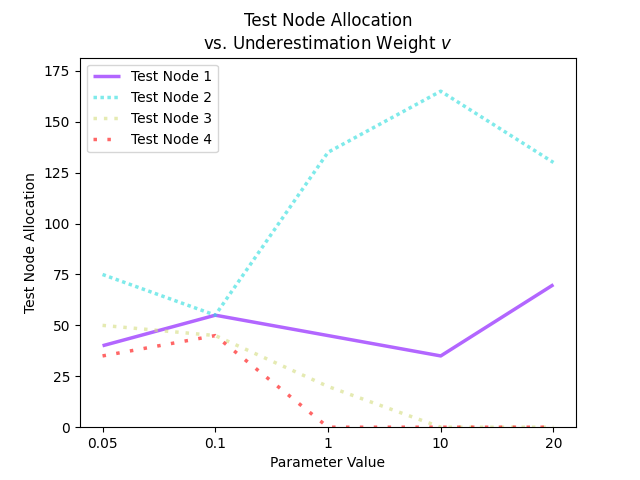
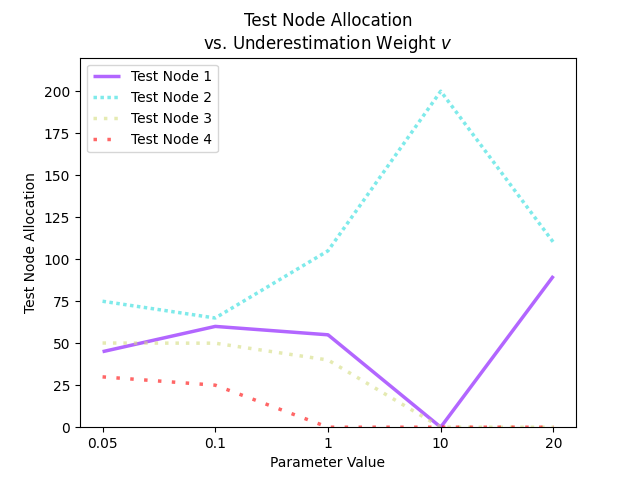
case study adds

diff --git a/bayesianexperimentation/bayesianexperimentaldesign.py b/bayesianexperimentation/bayesianexperimentaldesign.py
@@ -2844,6 +2844,42 @@ def allocationCaseStudy():
         0.04386058, 0.04477777, 0.0467264 , 0.04695118, 0.04900154,
         0.04869328, 0.04938808, 0.05143445, 0.05252614, 0.05373184,
         0.05447112]])
+    currMargUtilMat05_3 = np.array([[0.        , 0.00601169, 0.0108309 , 0.01355915, 0.01673024,
+        0.01928076, 0.02164499, 0.02392497, 0.02596712, 0.02832058,
+        0.02947884, 0.03180665, 0.03320108, 0.03613551, 0.03770515,
+        0.03856799, 0.0410028 , 0.04214557, 0.04334369, 0.04453244,
+        0.04635301, 0.04812485, 0.04907387, 0.05127222, 0.05140429,
+        0.05453983, 0.05517881, 0.05757177, 0.0591679 , 0.06030551,
+        0.06226179, 0.06375696, 0.06392201, 0.06606418, 0.06753301,
+        0.06922053, 0.07083268, 0.07117967, 0.07485609, 0.07505168,
+        0.07630949],
+       [0.        , 0.00917243, 0.0146688 , 0.01886884, 0.0227943 ,
+        0.02620967, 0.02894632, 0.03228571, 0.0341945 , 0.0374255 ,
+        0.03849882, 0.04005418, 0.04330325, 0.04413023, 0.04517914,
+        0.04821411, 0.0487302 , 0.05098418, 0.05202669, 0.05463323,
+        0.05537767, 0.05724306, 0.05842422, 0.05977964, 0.06181523,
+        0.0625304 , 0.06424249, 0.06502145, 0.06755836, 0.06866985,
+        0.06967059, 0.07034459, 0.07093824, 0.07296039, 0.07438248,
+        0.07651179, 0.07680317, 0.07901239, 0.07942372, 0.08045284,
+        0.08225545],
+       [0.        , 0.00566112, 0.00969647, 0.01332372, 0.01625888,
+        0.01871384, 0.02088149, 0.02371345, 0.02548017, 0.02831037,
+        0.02950397, 0.03183995, 0.0342302 , 0.03563289, 0.03816063,
+        0.04037406, 0.04093243, 0.04309172, 0.04430666, 0.04534428,
+        0.04627744, 0.04936543, 0.05053222, 0.05148008, 0.05327159,
+        0.05401187, 0.05522744, 0.05754494, 0.0589372 , 0.06006307,
+        0.06055305, 0.06202746, 0.06466132, 0.06602554, 0.06615118,
+        0.0684922 , 0.0681559 , 0.07017547, 0.07212271, 0.07292587,
+        0.07518005],
+       [0.        , 0.0049045 , 0.00860365, 0.01134197, 0.01354706,
+        0.01566037, 0.0179595 , 0.01922929, 0.02104824, 0.02279682,
+        0.02442528, 0.02622876, 0.02661489, 0.0289812 , 0.03012896,
+        0.03149374, 0.03263529, 0.03394694, 0.03440262, 0.03632841,
+        0.03769419, 0.03841844, 0.03973692, 0.04130814, 0.04197544,
+        0.04299327, 0.04478917, 0.04482476, 0.04640051, 0.04684873,
+        0.04706124, 0.0499702 , 0.04965964, 0.05174459, 0.05136836,
+        0.05342019, 0.05529931, 0.05441994, 0.05502264, 0.0564276 ,
+        0.0567394 ]])
     
     estWts=0.1
     currMargUtilMat01_1 = np.array([[0.     ,    0.00538566, 0.00982736, 0.01271866, 0.01614273, 0.0187065,
@@ -2910,6 +2946,42 @@ def allocationCaseStudy():
         0.04919351, 0.05129355, 0.05303324, 0.05317438, 0.0544222 ,
         0.05572733, 0.05647557, 0.05773062, 0.05989496, 0.05984892,
         0.06162219]])
+    currMargUtilMat01_3 = np.array([[0.        , 0.00639391, 0.01136505, 0.01489401, 0.01762907,
+        0.02029276, 0.02183615, 0.02526364, 0.02678703, 0.02862861,
+        0.03135807, 0.03182461, 0.03458404, 0.03655475, 0.03865938,
+        0.03928285, 0.04249975, 0.04258686, 0.04572023, 0.04736341,
+        0.04881685, 0.05148298, 0.05275808, 0.05374062, 0.0552097 ,
+        0.05814155, 0.05931001, 0.06103467, 0.06299643, 0.06498305,
+        0.06585189, 0.06872513, 0.06921488, 0.07126189, 0.07270524,
+        0.07322759, 0.07626589, 0.07770516, 0.08122895, 0.08049673,
+        0.08215578],
+       [0.        , 0.0090664 , 0.01493884, 0.01889667, 0.02373642,
+        0.02667673, 0.03017273, 0.03284067, 0.03493844, 0.03780881,
+        0.04052884, 0.04214605, 0.04321282, 0.0462698 , 0.04781833,
+        0.05046425, 0.05175365, 0.05383571, 0.05557292, 0.05637454,
+        0.05859584, 0.06012309, 0.06183396, 0.06285485, 0.06363613,
+        0.06626397, 0.0670798 , 0.06967165, 0.07025195, 0.07236018,
+        0.07244557, 0.07489036, 0.0760199 , 0.07750106, 0.07964101,
+        0.0801884 , 0.08272493, 0.08368749, 0.08420952, 0.08676592,
+        0.08812164],
+       [0.        , 0.00568012, 0.00970543, 0.01416993, 0.01677766,
+        0.01992959, 0.02254338, 0.02465527, 0.02656419, 0.02869913,
+        0.03190436, 0.032452  , 0.03502178, 0.03682705, 0.0395962 ,
+        0.04039458, 0.04262026, 0.04428826, 0.04743055, 0.04740884,
+        0.04955442, 0.05183729, 0.05355826, 0.05435859, 0.0554204 ,
+        0.05665143, 0.06008015, 0.06016685, 0.06153244, 0.06463863,
+        0.06516169, 0.06675482, 0.06894615, 0.07006292, 0.07148376,
+        0.07233864, 0.07415689, 0.07460429, 0.07769104, 0.07900862,
+        0.08089908],
+       [0.        , 0.00519972, 0.00911248, 0.01236546, 0.01501125,
+        0.01609382, 0.01926756, 0.02046771, 0.02208726, 0.02327597,
+        0.02515903, 0.02656307, 0.0284272 , 0.02907843, 0.03130281,
+        0.03251073, 0.03329943, 0.03487734, 0.03619566, 0.03759394,
+        0.03831557, 0.04080038, 0.04065815, 0.04294581, 0.04368997,
+        0.04411576, 0.04563693, 0.04670706, 0.04815234, 0.04939909,
+        0.04992203, 0.05178766, 0.05156343, 0.053983  , 0.05377245,
+        0.05615015, 0.05679538, 0.05771323, 0.05889431, 0.06024397,
+        0.0614273 ]])
   
     estWts=1.
     currMargUtilMat1_1 = np.array([[0. ,        0.00635309, 0.01146727, 0.01750851, 0.02223688, 0.0282137,
@@ -2976,6 +3048,42 @@ def allocationCaseStudy():
         0.10978083, 0.11304917, 0.11692891, 0.12008756, 0.12524046,
         0.12616514, 0.13074748, 0.13506195, 0.13936209, 0.14475588,
         0.14641561]])
+    currMargUtilMat1_3 = np.array([[0.        , 0.00708303, 0.01202703, 0.01760781, 0.0238618 ,
+        0.02953405, 0.03500005, 0.04046357, 0.04576374, 0.0525664 ,
+        0.05714948, 0.06284042, 0.06713668, 0.07431587, 0.0775439 ,
+        0.08429405, 0.08920301, 0.09645633, 0.10003191, 0.10857733,
+        0.11310966, 0.11633637, 0.12409586, 0.12836672, 0.13344646,
+        0.14050193, 0.1497587 , 0.14946381, 0.15967006, 0.16739316,
+        0.17253168, 0.18024853, 0.18630931, 0.19582365, 0.19934008,
+        0.20480294, 0.21444437, 0.22132304, 0.22260138, 0.23185276,
+        0.23909004],
+       [0.        , 0.01329085, 0.02462499, 0.03380493, 0.04226175,
+        0.05046993, 0.05932477, 0.06684667, 0.07341225, 0.07996431,
+        0.08682482, 0.09155627, 0.09791599, 0.10289822, 0.11087157,
+        0.11427473, 0.11902581, 0.12522709, 0.13201416, 0.13705479,
+        0.14368302, 0.1498692 , 0.15277716, 0.15971197, 0.16484615,
+        0.17218462, 0.17908626, 0.1828527 , 0.18718651, 0.19372938,
+        0.19954531, 0.20295784, 0.21171789, 0.21760787, 0.22222669,
+        0.22850027, 0.2335897 , 0.2398155 , 0.24463211, 0.25007528,
+        0.25750757],
+       [0.        , 0.00529348, 0.01123608, 0.01691997, 0.02175003,
+        0.02826035, 0.03205964, 0.03768284, 0.0428933 , 0.04780803,
+        0.05229358, 0.05752097, 0.06182863, 0.06821374, 0.07070109,
+        0.07640331, 0.08149737, 0.08777773, 0.09190038, 0.09639713,
+        0.10063606, 0.10643852, 0.11287153, 0.11653095, 0.11904369,
+        0.1263043 , 0.13024959, 0.13589724, 0.14153439, 0.14690753,
+        0.15236881, 0.15844206, 0.16188635, 0.16772169, 0.17542838,
+        0.18079987, 0.18230366, 0.19036298, 0.19682688, 0.20286276,
+        0.20888919],
+       [0.        , 0.00293124, 0.00625195, 0.0112157 , 0.01427235,
+        0.01805878, 0.02183471, 0.02621103, 0.0302594 , 0.03384897,
+        0.0369009 , 0.04082603, 0.04366943, 0.04903888, 0.05124203,
+        0.05581082, 0.05901962, 0.06338594, 0.06669037, 0.06980079,
+        0.07281564, 0.07641951, 0.08087053, 0.08330807, 0.08788097,
+        0.09012091, 0.09394309, 0.0969323 , 0.09986965, 0.10502292,
+        0.10478722, 0.11088498, 0.11308959, 0.11860284, 0.12381704,
+        0.12539139, 0.12937432, 0.13582546, 0.13924364, 0.14128972,
+        0.14675736]])
   
   estWts=10.
     currMargUtilMat10_1 = np.array([[ 0.        , 0.00187084,  0.01101145,  0.02365965,  0.01965287,
@@ -3014,7 +3122,6 @@ def allocationCaseStudy():
          0.15131183,  0.16128978,  0.16290716,  0.17740661,  0.19389113,
          0.19536222,  0.19819384,  0.21208915,  0.21891271,  0.22802349,
          0.24009162]])
-    estWts=10.
         currMargUtilMat10_2 = np.array([[0.00000000e+00,  4.83668741e-03,  1.45813534e-02,
          1.96326671e-02,  2.31413815e-02,  3.86804520e-02,
          4.61214590e-02,  6.05979327e-02,  6.47738934e-02,
@@ -3071,10 +3178,101 @@ def allocationCaseStudy():
          1.82366295e-01,  1.94403165e-01,  1.95413723e-01,
          1.99995171e-01,  2.14937216e-01,  2.22342358e-01,
          2.29868784e-01,  2.32654899e-01]])
-         
+    currMargUtilMat10_3 = np.array([[ 0.00000000e+00,  3.67716159e-03,  9.58572101e-03,
+         1.93255263e-02,  2.45352363e-02,  3.67152701e-02,
+         4.90953174e-02,  6.31365818e-02,  7.47135272e-02,
+         8.92910885e-02,  9.50971193e-02,  1.08453053e-01,
+         1.13943123e-01,  1.33128468e-01,  1.50304373e-01,
+         1.56581639e-01,  1.72743146e-01,  1.81868192e-01,
+         1.94261352e-01,  1.99301045e-01,  2.01820856e-01,
+         2.31330648e-01,  2.43459807e-01,  2.53392606e-01,
+         2.59433359e-01,  2.87330501e-01,  2.91722500e-01,
+         3.01050810e-01,  3.14570076e-01,  3.25332400e-01,
+         3.41087978e-01,  3.59667596e-01,  3.74694882e-01,
+         3.73759261e-01,  4.04220386e-01,  4.10219673e-01,
+         4.25812116e-01,  4.40560016e-01,  4.52723093e-01,
+         4.72545255e-01,  4.96136652e-01],
+       [ 0.00000000e+00,  1.22457326e-02,  3.56012015e-02,
+         5.08022918e-02,  6.69209995e-02,  8.20668477e-02,
+         8.91927811e-02,  1.07494145e-01,  1.22529285e-01,
+         1.32797798e-01,  1.45272302e-01,  1.56675104e-01,
+         1.67972264e-01,  1.82179732e-01,  1.96146740e-01,
+         2.00720462e-01,  2.11122133e-01,  2.24624795e-01,
+         2.36883123e-01,  2.50292709e-01,  2.59161328e-01,
+         2.70350991e-01,  2.83886233e-01,  3.04917692e-01,
+         3.02742172e-01,  3.19774237e-01,  3.34359386e-01,
+         3.46938243e-01,  3.47800881e-01,  3.64649893e-01,
+         3.82263396e-01,  3.87696257e-01,  4.02212534e-01,
+         4.24265084e-01,  4.41367033e-01,  4.50832874e-01,
+         4.52586278e-01,  4.68777555e-01,  4.80548332e-01,
+         5.01568891e-01,  5.17341633e-01],
+       [ 0.00000000e+00, -1.69332156e-04,  8.45316123e-04,
+         8.12189219e-03,  1.19780269e-02,  1.23669561e-02,
+         2.27546003e-02,  2.97163684e-02,  3.56550565e-02,
+         4.02688437e-02,  4.36931771e-02,  5.43799202e-02,
+         5.79590042e-02,  7.04482320e-02,  7.99544605e-02,
+         8.71573755e-02,  9.10924680e-02,  1.02054402e-01,
+         1.08927124e-01,  1.22748637e-01,  1.29506466e-01,
+         1.36049857e-01,  1.43855924e-01,  1.52847115e-01,
+         1.64627660e-01,  1.72419243e-01,  1.83370075e-01,
+         1.86769264e-01,  2.04881425e-01,  2.17107651e-01,
+         2.24299646e-01,  2.31916394e-01,  2.51620545e-01,
+         2.58763150e-01,  2.61866504e-01,  2.88615140e-01,
+         2.95062568e-01,  3.03796944e-01,  3.25276324e-01,
+         3.37129701e-01,  3.46784250e-01],
+       [ 0.00000000e+00,  3.16555963e-04,  3.58701738e-03,
+         2.07870991e-03,  1.04771905e-02,  1.06240360e-02,
+         1.47785411e-02,  1.34368789e-02,  2.36980664e-02,
+         2.69802015e-02,  3.42547976e-02,  3.47978815e-02,
+         4.34301827e-02,  4.69953555e-02,  4.92589589e-02,
+         5.99059598e-02,  7.04083549e-02,  6.87402917e-02,
+         7.80178199e-02,  8.02692803e-02,  9.37782120e-02,
+         9.02093165e-02,  1.02023399e-01,  1.02348474e-01,
+         1.10025426e-01,  1.18452399e-01,  1.22497611e-01,
+         1.34374016e-01,  1.35220137e-01,  1.52307108e-01,
+         1.56849938e-01,  1.62805632e-01,  1.64408359e-01,
+         1.78202759e-01,  1.87026715e-01,  1.93602617e-01,
+         2.10064169e-01,  2.05641358e-01,  2.17252370e-01,
+         2.22159965e-01,  2.38465943e-01]])
+    currMargUtilMat10_4 = np.array([[ 0.        , -0.00326299,  0.01453735,  0.01628512,  0.02586612,
+         0.04753874,  0.05591765,  0.05757165,  0.07606291,  0.09240109,
+         0.10249128,  0.10878816,  0.11771682,  0.13196049,  0.14124873,
+         0.15634636,  0.1675337 ,  0.17075652,  0.18537548,  0.20258862,
+         0.21917991,  0.22475422,  0.23718577,  0.2391832 ,  0.26909206,
+         0.27934278,  0.28857025,  0.30401379,  0.31273704,  0.33494853,
+         0.33888414,  0.35520634,  0.3685704 ,  0.3864484 ,  0.3963973 ,
+         0.41314016,  0.42740338,  0.44832572,  0.45974107,  0.48512757,
+         0.48608601],
+       [ 0.        ,  0.01277454,  0.0341831 ,  0.04999897,  0.06451145,
+         0.08112242,  0.09298163,  0.10668204,  0.11756693,  0.13214403,
+         0.1476253 ,  0.15606789,  0.16626783,  0.18198117,  0.19642011,
+         0.20513747,  0.21216651,  0.21901706,  0.23365039,  0.24885092,
+         0.26505896,  0.27114178,  0.28658752,  0.29722849,  0.30775409,
+         0.31589646,  0.33363951,  0.34258261,  0.34643554,  0.36982479,
+         0.38042382,  0.39605005,  0.40390645,  0.4208388 ,  0.42636612,
+         0.43958052,  0.45053472,  0.47731285,  0.47871535,  0.50083907,
+         0.50782991],
+       [ 0.        ,  0.0007562 ,  0.00358551,  0.00580023,  0.01038144,
+         0.01758299,  0.01633052,  0.02748278,  0.03600851,  0.0401659 ,
+         0.05237222,  0.0548623 ,  0.05913007,  0.06982566,  0.07714147,
+         0.08462955,  0.09437928,  0.10162429,  0.10525623,  0.11667291,
+         0.125469  ,  0.13891965,  0.14470481,  0.15418376,  0.16566666,
+         0.17060066,  0.18604425,  0.19607424,  0.21002448,  0.21120157,
+         0.23104373,  0.24629616,  0.24827763,  0.26287568,  0.27143312,
+         0.28059402,  0.29067071,  0.30933815,  0.31915525,  0.33424084,
+         0.34215385],
+       [ 0.        ,  0.00229334,  0.00253851,  0.00446816,  0.0057453 ,
+         0.0099234 ,  0.01035598,  0.01584162,  0.0202078 ,  0.02823991,
+         0.03111249,  0.0336205 ,  0.04142276,  0.04347153,  0.05749626,
+         0.05930998,  0.06570671,  0.07436107,  0.07610367,  0.08948242,
+         0.08933244,  0.1002618 ,  0.10776564,  0.10933119,  0.11788855,
+         0.12596371,  0.13209012,  0.1372783 ,  0.14800078,  0.15874893,
+         0.16349956,  0.16743287,  0.16841558,  0.18512092,  0.19555775,
+         0.20081598,  0.20592032,  0.21484288,  0.22182094,  0.23052392,
+         0.23556636]])
          
     estWts=20.
-    currMargUtilMat20 = np.array([[0.        , 0.03122135, 0.04374608, 0.07953968, 0.10254936,
+    currMargUtilMat20_1 = np.array([[0.        , 0.03122135, 0.04374608, 0.07953968, 0.10254936,
         0.12161572, 0.13003613, 0.15749448, 0.1719171 , 0.1918125 ,
         0.22777451, 0.23559735, 0.25725892, 0.27445793, 0.30179373,
         0.30699252, 0.32095604, 0.35480799, 0.36816871, 0.39259309,
@@ -3110,13 +3308,89 @@ def allocationCaseStudy():
         0.30494852, 0.31289544, 0.33511157, 0.32900062, 0.3422699 ,
         0.3795908 , 0.37088947, 0.38801096, 0.39276853, 0.40531781,
         0.41274841]])
+    currMargUtilMat20_2 = np.array([[0.        , 0.02125559, 0.04827134, 0.07612011, 0.09900006,
+        0.117807  , 0.13044409, 0.14380364, 0.18357705, 0.19352901,
+        0.22648457, 0.22481154, 0.25058165, 0.26924929, 0.28408106,
+        0.32106815, 0.34665462, 0.35130156, 0.36424857, 0.38222403,
+        0.3971678 , 0.41683456, 0.43620454, 0.45841828, 0.48446863,
+        0.51869544, 0.51917402, 0.53616076, 0.54384826, 0.58913013,
+        0.61063711, 0.60761844, 0.63519711, 0.65703494, 0.68947866,
+        0.69176519, 0.72553852, 0.74435918, 0.75250373, 0.80655128,
+        0.82154512],
+       [0.        , 0.03464929, 0.06648022, 0.10025408, 0.13052071,
+        0.15442294, 0.18280851, 0.20638914, 0.22733564, 0.24781017,
+        0.26396941, 0.28892964, 0.303294  , 0.323884  , 0.34093355,
+        0.35758069, 0.37668851, 0.39187852, 0.41906084, 0.43656527,
+        0.44936293, 0.4576348 , 0.48757412, 0.50318421, 0.50066724,
+        0.53364626, 0.53653932, 0.57020696, 0.58124552, 0.60765385,
+        0.62758798, 0.64375087, 0.64585578, 0.67515882, 0.69020541,
+        0.707471  , 0.73724196, 0.74434771, 0.75724537, 0.7946975 ,
+        0.79552227],
+       [0.        , 0.00619485, 0.02288682, 0.03490385, 0.04759237,
+        0.05697106, 0.06481024, 0.08367285, 0.09190088, 0.10918987,
+        0.11901948, 0.12479013, 0.14812085, 0.15676291, 0.17020113,
+        0.17677885, 0.20078372, 0.20023894, 0.22061875, 0.23996581,
+        0.24889135, 0.26038592, 0.28547839, 0.28756778, 0.30107979,
+        0.31551105, 0.33329454, 0.35240294, 0.35952505, 0.39054791,
+        0.38175423, 0.41727104, 0.41845774, 0.4456186 , 0.46919596,
+        0.46697455, 0.4815596 , 0.51216052, 0.51576777, 0.55476507,
+        0.57554892],
+       [0.        , 0.00667655, 0.02155994, 0.03320599, 0.04447114,
+        0.04808501, 0.06544534, 0.07845296, 0.08387959, 0.0957279 ,
+        0.11185868, 0.1164262 , 0.12415999, 0.12462307, 0.15221759,
+        0.14709231, 0.15970262, 0.16544189, 0.17755409, 0.19083968,
+        0.20254612, 0.20965376, 0.21695315, 0.22657548, 0.23740017,
+        0.23672327, 0.26592288, 0.25685996, 0.27424787, 0.29433968,
+        0.29764033, 0.3176335 , 0.31394635, 0.34277936, 0.34327169,
+        0.36504689, 0.36949924, 0.40121726, 0.3804678 , 0.39214342,
+        0.41161849]])
+    currMargUtilMat20_3 = np.array([[0.        , 0.0189761 , 0.04213055, 0.0692274 , 0.08493518,
+        0.10960439, 0.12935544, 0.15422591, 0.1820933 , 0.18605347,
+        0.22541907, 0.24211535, 0.27216086, 0.28219   , 0.3031336 ,
+        0.31651481, 0.32511504, 0.34052028, 0.36925879, 0.38560417,
+        0.40745489, 0.42574937, 0.44538584, 0.47153099, 0.49696906,
+        0.48501796, 0.52620456, 0.53600946, 0.55964428, 0.57523679,
+        0.61583992, 0.60278173, 0.671152  , 0.67319313, 0.69536721,
+        0.70002211, 0.73932198, 0.74938995, 0.77465165, 0.80738389,
+        0.83052841],
+       [0.        , 0.03462244, 0.06337425, 0.09766331, 0.13278672,
+        0.15928553, 0.18140084, 0.2013699 , 0.22447844, 0.25444149,
+        0.2703801 , 0.28741308, 0.310366  , 0.32698588, 0.33494323,
+        0.35187905, 0.3663132 , 0.39165514, 0.40896314, 0.42619036,
+        0.45106067, 0.46259076, 0.47972135, 0.48962602, 0.52389075,
+        0.53374889, 0.54816289, 0.57126085, 0.59173295, 0.60042649,
+        0.62641779, 0.63514353, 0.65932946, 0.67668017, 0.6976889 ,
+        0.72098829, 0.73415278, 0.75966623, 0.77824961, 0.79381525,
+        0.8164883 ],
+       [0.        , 0.00903942, 0.02413912, 0.03254584, 0.04843705,
+        0.05429044, 0.07220407, 0.07831914, 0.10317349, 0.11517455,
+        0.1130295 , 0.12720642, 0.1323737 , 0.15361375, 0.17960553,
+        0.18124269, 0.19874189, 0.20779291, 0.22725754, 0.24231435,
+        0.24495276, 0.25749703, 0.2614105 , 0.28585186, 0.30991459,
+        0.32096764, 0.33205682, 0.35415335, 0.37208474, 0.38673517,
+        0.41181384, 0.4051197 , 0.42999701, 0.46210158, 0.47565562,
+        0.49168729, 0.49006225, 0.52620659, 0.53915191, 0.55329862,
+        0.58143864],
+       [0.        , 0.00640279, 0.01418766, 0.03185527, 0.04052898,
+        0.05813507, 0.07064662, 0.0698798 , 0.08459433, 0.09288537,
+        0.10545113, 0.11289766, 0.11777098, 0.135632  , 0.13706071,
+        0.16040039, 0.16150063, 0.1817523 , 0.16904969, 0.196118  ,
+        0.20220446, 0.20381078, 0.2220336 , 0.22605781, 0.24013266,
+        0.25000949, 0.27224234, 0.27808022, 0.28657007, 0.28856113,
+        0.30267934, 0.30951681, 0.32110853, 0.33741482, 0.35765025,
+        0.36438221, 0.36676315, 0.39707326, 0.40077812, 0.4001125 ,
+        0.40735725]])
   '''
     # Get allocation solutions for different budgets and plot WRT parameter
+    currMargUtilMat05 = (currMargUtilMat05_1 + currMargUtilMat05_2 + currMargUtilMat05_3) / 3
     sol05, val05 = GetOptAllocation(currMargUtilMat05)
+    currMargUtilMat01 = (currMargUtilMat01_1 + currMargUtilMat01_2 + currMargUtilMat01_3) / 3
     sol01, val01 = GetOptAllocation(currMargUtilMat01)
+    currMargUtilMat1 = (currMargUtilMat1_1 + currMargUtilMat1_2 + currMargUtilMat1_3) / 3
     sol1, val1 = GetOptAllocation(currMargUtilMat1)
-    currMargUtilMat10 = (currMargUtilMat10_1+currMargUtilMat10_2)/2
+    currMargUtilMat10 = (currMargUtilMat10_1+currMargUtilMat10_2+currMargUtilMat10_3+currMargUtilMat10_4)/4
     sol10, val10 = GetOptAllocation(currMargUtilMat10)
+    currMargUtilMat20 = (currMargUtilMat20_1 + currMargUtilMat20_2+ currMargUtilMat20_3) / 3
     sol20, val20 = GetOptAllocation(currMargUtilMat20)
 
     allocArr = np.vstack((sol05,sol01,sol1,sol10,sol20)).T
